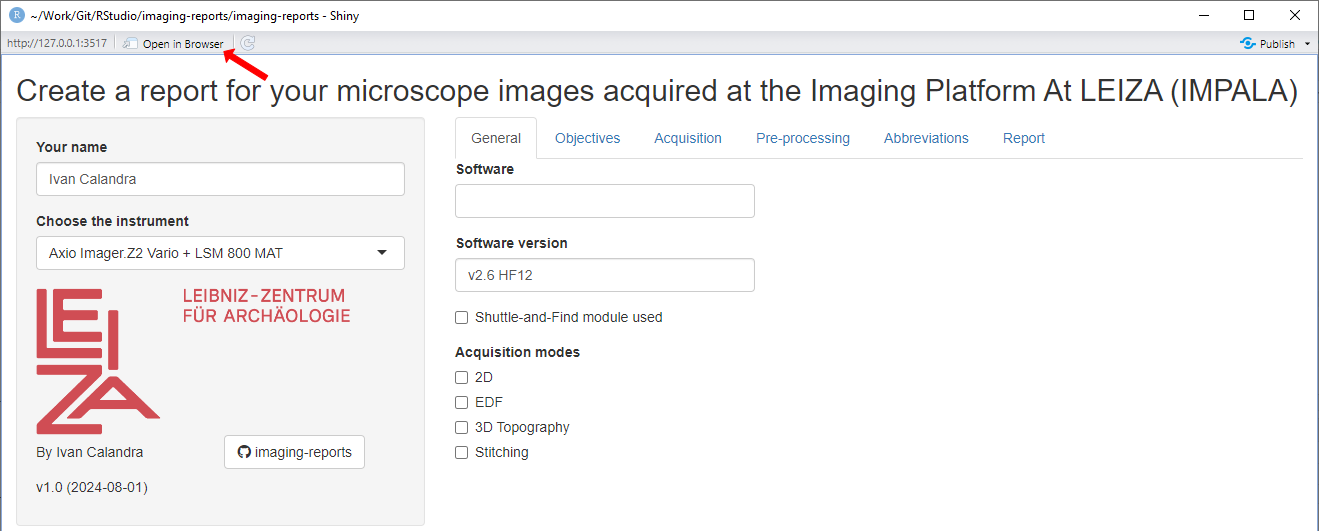
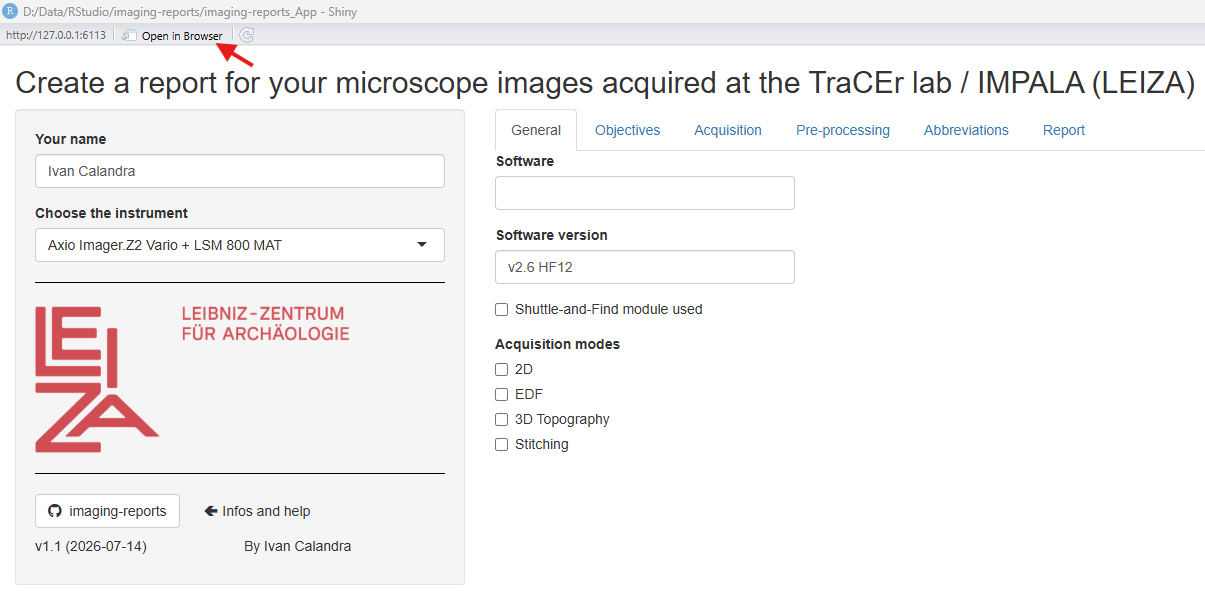
- App.R: title changed, side bar adjusted to have the same design as my other Shiny Apps, new objective of AxioLab added - README: added TraCEr lab - Screenshots adjusted

diff --git a/README.md b/README.md
@@ -59,7 +59,7 @@
 
 # Purpose
 
-This repository contains a [**Shiny App**](imaging-reports/app.R) that guides users to **create a report for microscope images acquired at the Imaging Platform at LEIZA ([IMPALA](https://www.leiza.de/forschung/infrastrukturen/labore/impala)) with all the necessary metadata.**
+This repository contains a [**Shiny App**](imaging-reports_App/app.R) that guides users to **create a report for microscope images acquired at the [TraCEr lab](https://www.leiza.de/forschung/infrastrukturen/labore/tracer) / Imaging Platform at LEIZA ([IMPALA](https://www.leiza.de/forschung/infrastrukturen/labore/impala)) with all the necessary metadata.**
 
 Once all fields are entered, **the report can be exported to an ODS or XLSX file**.  
 
@@ -95,7 +95,7 @@ There are two ways to get the App:
 
 ### Start the App
 1.  Open the file [imaging-reports.Rproj](imaging-reports.Rproj) with RStudio.
-2.  Open the file `imaging-reports/app.R` from within RStudio by clicking on it in the `Files` panel.
+2.  Open the file `imaging-reports_App/app.R` from within RStudio by clicking on it in the `Files` panel.
 
 ><p align="center" width="100%">
 >    <img src="screenshots/open_app.png"><br>
